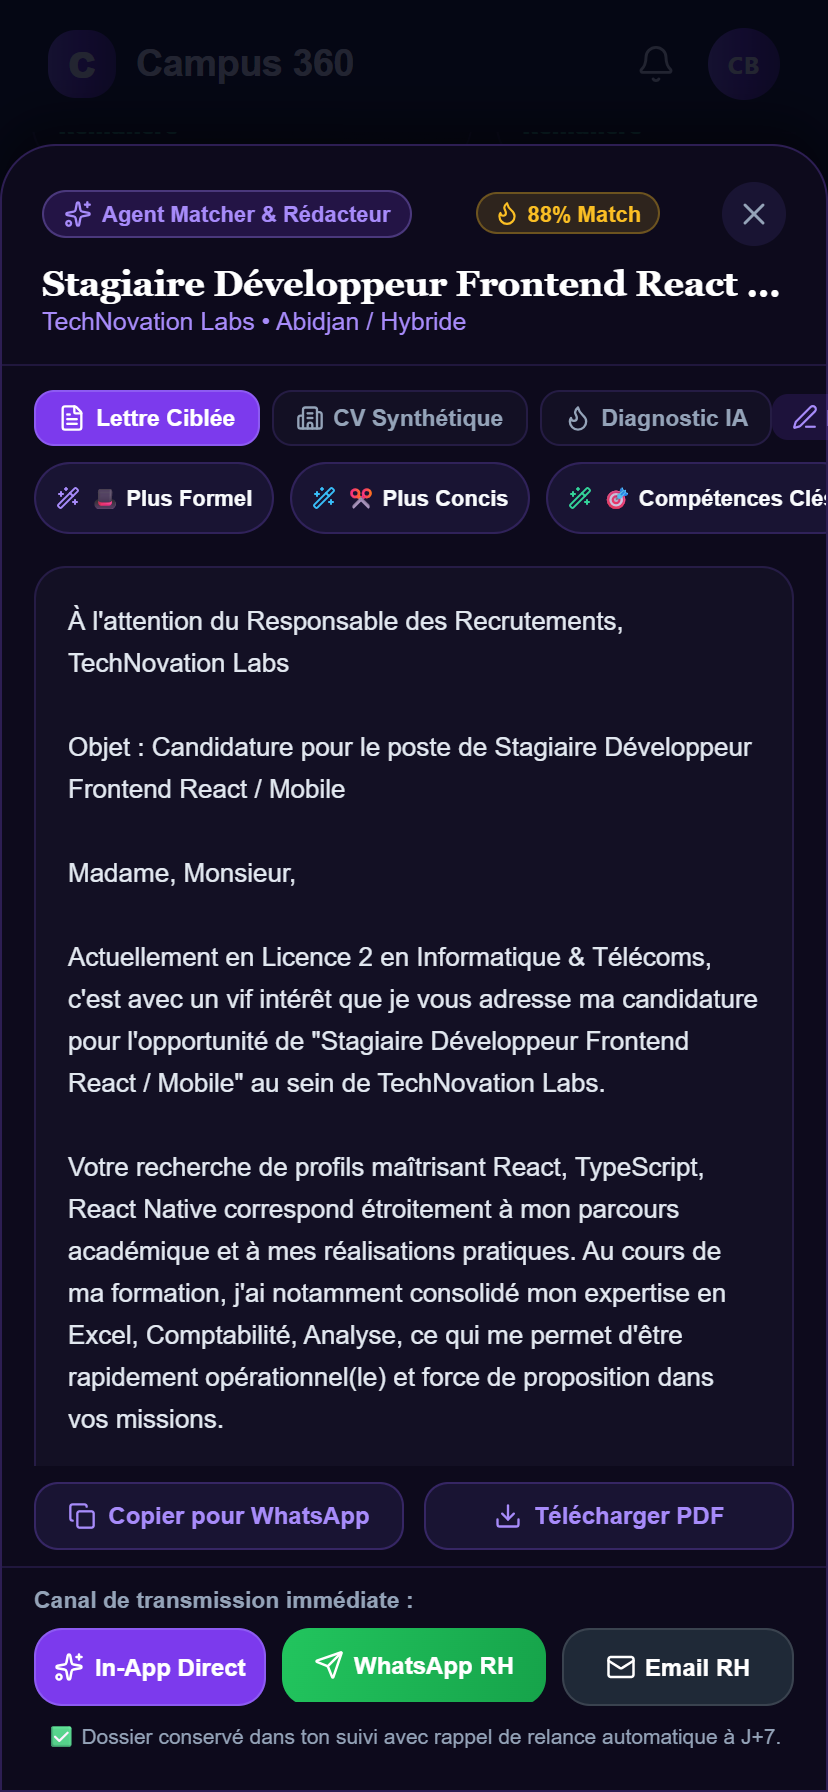
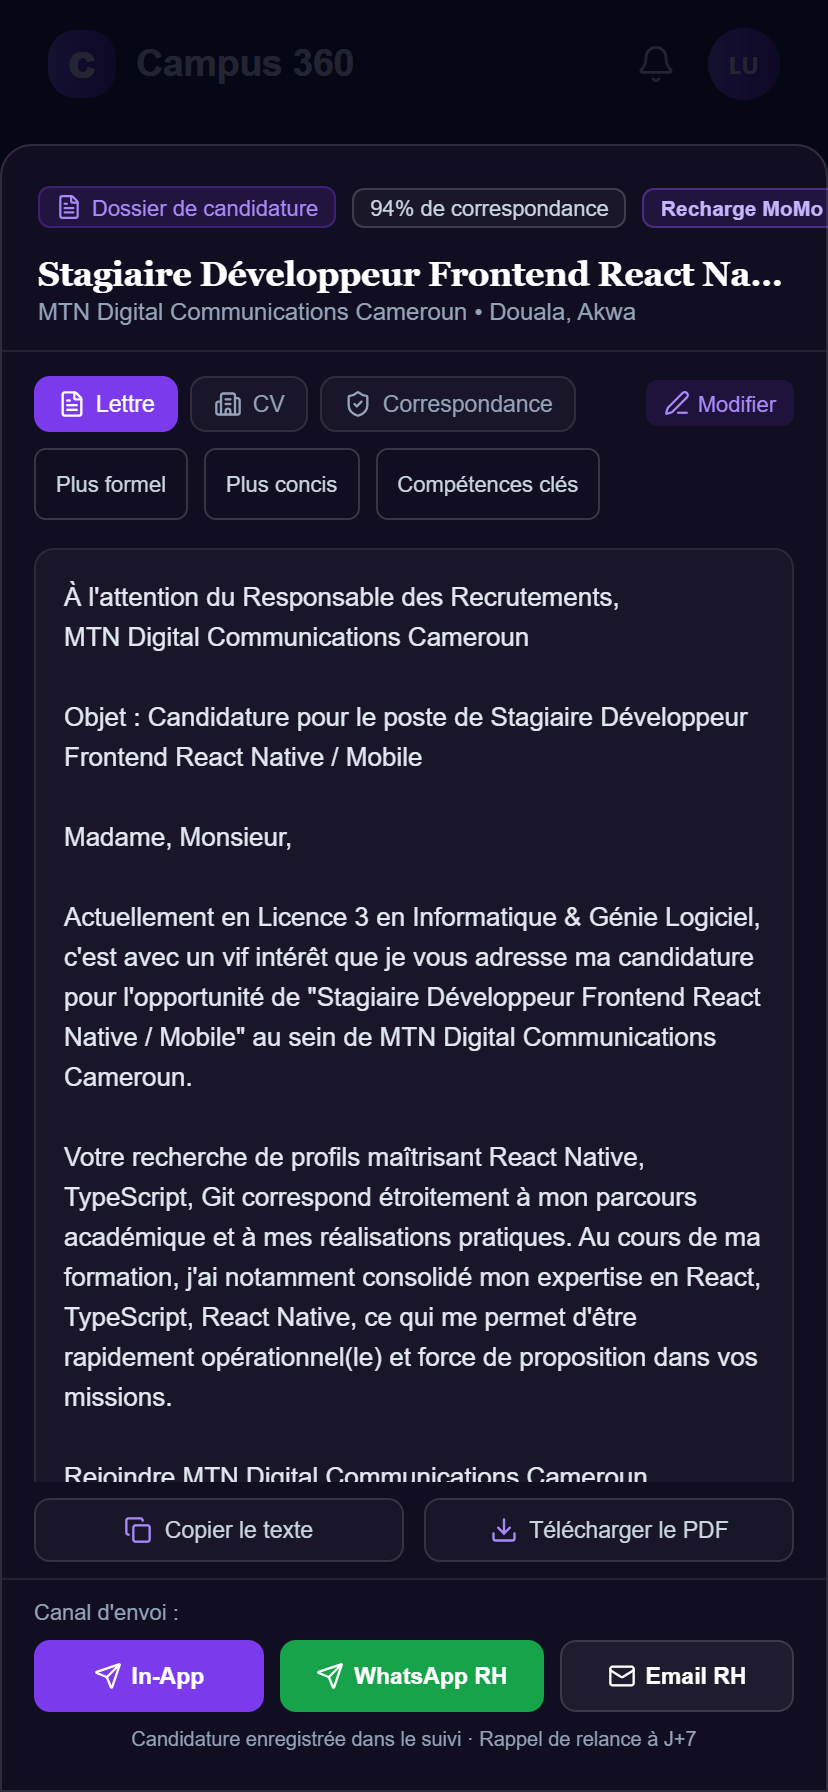
feat(scrapers-match): expand scraping and AI matching to all regions of Cameroon (Sud-Ouest, Ouest, Grand Nord, Sud, Est)

Changed region(s): [[0.0302, 0.0938, 1.0, 1.0]]

diff --git a/src/features/stages/aiMatchEngine.ts b/src/features/stages/aiMatchEngine.ts
@@ -423,63 +423,101 @@ function evaluateLocationProximity(
   const studentLoc = (studentLocation || '').toLowerCase();
   const majorLoc = (studentMajor || '').toLowerCase();
 
-  // 1. Offre en télétravail ou Remote -> 100% (15 points)
-  if (/remote|télétravail|teletravail|en ligne|hybride|partout/.test(jobLoc)) {
+  // 1. Offre en télétravail, Remote, ou mobilité nationale -> 100% (15 points)
+  if (/remote|télétravail|teletravail|en ligne|hybride|partout|national|cameroun \(national/.test(jobLoc)) {
     return 15;
   }
 
-  // 2. Détection de la ville de l'étudiant
-  let detectedStudentCity = '';
-  if (/douala/.test(studentLoc) || /douala/.test(majorLoc)) detectedStudentCity = 'douala';
-  else if (/yaoundé|yaounde/.test(studentLoc) || /yaoundé|yaounde|polytechnique/.test(majorLoc)) detectedStudentCity = 'yaounde';
-  else if (/bafoussam|dschang/.test(studentLoc) || /dschang/.test(majorLoc)) detectedStudentCity = 'bafoussam';
-  else if (/buea|limbe/.test(studentLoc) || /buea|limbe/.test(majorLoc)) detectedStudentCity = 'buea';
-  else if (/garoua|maroua/.test(studentLoc)) detectedStudentCity = 'nord';
+  // 2. Détection de la région / ville de l'étudiant
+  const resolveCityCluster = (text: string): string => {
+    if (/douala/.test(text)) return 'douala';
+    if (/yaoundé|yaounde|polytechnique/.test(text)) return 'yaounde';
+    if (/buea|limbe|tiko|kumba/.test(text)) return 'sud_ouest';
+    if (/bafoussam|dschang|foumban|mbouda|bangangté|bangangte/.test(text)) return 'ouest';
+    if (/bamenda/.test(text)) return 'nord_ouest';
+    if (/garoua|maroua|ngaoundéré|ngaoundere|adamaoua/.test(text)) return 'grand_nord';
+    if (/kribi|ebolowa|sangmélima|sangmelima/.test(text)) return 'sud';
+    if (/edéa|edea/.test(text)) return 'edea';
+    if (/bertoua|batouri/.test(text)) return 'est';
+    return '';
+  };
 
-  // 3. Détection de la ville de l'offre
-  let detectedJobCity = '';
-  if (/douala/.test(jobLoc)) detectedJobCity = 'douala';
-  else if (/yaoundé|yaounde/.test(jobLoc)) detectedJobCity = 'yaounde';
-  else if (/bafoussam|dschang/.test(jobLoc)) detectedJobCity = 'bafoussam';
-  else if (/buea|limbe/.test(jobLoc)) detectedJobCity = 'buea';
-  else if (/garoua|maroua/.test(jobLoc)) detectedJobCity = 'nord';
+  const detectedStudentCity = resolveCityCluster(studentLoc) || resolveCityCluster(majorLoc);
+  const detectedJobCity = resolveCityCluster(jobLoc);
 
-  // Si l'une des villes n'est pas identifiée, attribuer un score de mobilité médian (10/15)
+  // Si l'une des villes n'est pas identifiée, score de mobilité nationale (11/15)
   if (!detectedStudentCity || !detectedJobCity) {
-    return 10;
+    return 11;
   }
 
-  // Même ville exacte
+  // Même ville ou même cluster régional direct
   if (detectedStudentCity === detectedJobCity) {
     return 15;
   }
 
-  // Bassins économiques connectés (ex: Douala <-> Buea/Limbe)
+  // Littoral & Proximité immédiate (Douala <-> Edéa)
   if (
-    (detectedStudentCity === 'douala' && detectedJobCity === 'buea') ||
-    (detectedStudentCity === 'buea' && detectedJobCity === 'douala')
+    (detectedStudentCity === 'douala' && detectedJobCity === 'edea') ||
+    (detectedStudentCity === 'edea' && detectedJobCity === 'douala')
+  ) {
+    return 14;
+  }
+
+  // Corridor Littoral - Sud-Ouest Silicon Mountain (Douala <-> Buea / Limbe)
+  if (
+    (detectedStudentCity === 'douala' && detectedJobCity === 'sud_ouest') ||
+    (detectedStudentCity === 'sud_ouest' && detectedJobCity === 'douala')
+  ) {
+    return 12.5;
+  }
+
+  // Régions limitrophes Grassfields (Ouest Bafoussam/Dschang <-> Nord-Ouest Bamenda)
+  if (
+    (detectedStudentCity === 'ouest' && detectedJobCity === 'nord_ouest') ||
+    (detectedStudentCity === 'nord_ouest' && detectedJobCity === 'ouest')
   ) {
     return 12;
   }
 
-  // Grand axe Yaoundé <-> Bafoussam / Ouest
+  // Hub Grand Nord (Garoua <-> Maroua <-> Ngaoundéré)
+  if (detectedStudentCity === 'grand_nord' && detectedJobCity === 'grand_nord') {
+    return 14;
+  }
+
+  // Corridor Centre / Sud / Littoral Maritime (Kribi, Ebolowa <-> Douala, Yaoundé)
   if (
-    (detectedStudentCity === 'yaounde' && detectedJobCity === 'bafoussam') ||
-    (detectedStudentCity === 'bafoussam' && detectedJobCity === 'yaounde')
+    (detectedStudentCity === 'sud' && (detectedJobCity === 'douala' || detectedJobCity === 'yaounde')) ||
+    ((detectedStudentCity === 'douala' || detectedStudentCity === 'yaounde') && detectedJobCity === 'sud')
+  ) {
+    return 11;
+  }
+
+  // Axe Centre <-> Ouest (Yaoundé <-> Bafoussam)
+  if (
+    (detectedStudentCity === 'yaounde' && detectedJobCity === 'ouest') ||
+    (detectedStudentCity === 'ouest' && detectedJobCity === 'yaounde')
+  ) {
+    return 9.5;
+  }
+
+  // Axe Littoral <-> Ouest (Douala <-> Bafoussam)
+  if (
+    (detectedStudentCity === 'douala' && detectedJobCity === 'ouest') ||
+    (detectedStudentCity === 'ouest' && detectedJobCity === 'douala')
   ) {
     return 9;
   }
 
-  // Deux métropoles majeures Douala <-> Yaoundé (navette fréquente mais logement nécessaire)
+  // Deux métropoles majeures Douala <-> Yaoundé
   if (
     (detectedStudentCity === 'douala' && detectedJobCity === 'yaounde') ||
     (detectedStudentCity === 'yaounde' && detectedJobCity === 'douala')
   ) {
-    return 7.5;
+    return 8;
   }
 
-  // Villes géographiquement distantes
-  return 4.5;
+  // Autres liaisons interrégionales (mobilité étudiante avec stage conventionné)
+  return 5.5;
 }
 
 // ─────────────────────────────────────────────────────────────────────────────

diff --git a/scripts/agents/cameroon_jobs_agent.py b/scripts/agents/cameroon_jobs_agent.py
@@ -16,44 +16,74 @@ logging.basicConfig(level=logging.INFO, format="%(asctime)s [%(levelname)s] %(me
 logger = logging.getLogger("CameroonJobsAgent")
 
 CAMEROON_CITIES = [
+    # Métropoles économiques & administratives
     "Douala",
     "Yaoundé",
+    # Pôles Ouest & Nord-Ouest (Universités & Agro-industrie)
     "Bafoussam",
-    "Garoua",
-    "Maroua",
+    "Dschang",
     "Bamenda",
+    "Foumban",
+    # Pôles Sud-Ouest (Silicon Mountain Tech, Pétrole, Port & Tourisme)
     "Buea",
     "Limbe",
-    "Kribi",
+    "Kumba",
+    "Tiko",
+    # Grand Nord (Agro-industrie, Énergie, Coton, Élevage, Santé)
+    "Garoua",
+    "Maroua",
     "Ngaoundéré",
-    "Bertoua",
+    # Sud & Littoral Industriel (Port en eau profonde, Alu, Bois)
+    "Kribi",
+    "Edéa",
     "Ebolowa",
-    "Dschang"
+    # Est (Mines, Bois, Développement régional)
+    "Bertoua",
+    # Centre Périphérique
+    "Mbalmayo"
 ]
 
 class CameroonJobsAgent:
     def __init__(self):
         self.session = requests.Session()
 
-    def search_cameroon_jobs(self, query: str = "stage", max_results_per_query: int = 8) -> list:
+    def search_cameroon_jobs(self, query: str = "stage", city: str = None, max_results_per_query: int = 8) -> list:
         """
         Recherche des offres de stage et d'emploi spécifiquement localisées au Cameroun
-        sur de multiples portails et réseaux sociaux.
+        sur l'ensemble des 10 régions (Douala, Yaoundé, Bafoussam, Buea, Garoua, Kribi, etc.).
         """
         results = []
-        search_queries = [
-            # Portails camerounais réputés
-            f'site:emploi.cm ("{query}" OR "stage") Cameroun',
-            f'site:minajobs.net ("{query}" OR "stage") Cameroun',
-            f'site:cameroondesk.com ("{query}" OR "recrutement")',
-            f'site:akwajobs.com ("{query}" OR "stage" OR "internship")',
-            # LinkedIn Cameroun
-            f'site:linkedin.com/posts ("offre de stage" OR "recrutement") "{query}" ("Douala" OR "Yaoundé" OR "Cameroun")',
-            # Facebook Cameroun
-            f'site:facebook.com ("offre de stage" OR "recrutement") "{query}" ("Douala" OR "Yaoundé" OR "Bafoussam")',
-            # Dorks généraux avec contacts WhatsApp (très fréquents au Cameroun)
-            f'"{query}" ("Douala" OR "Yaoundé") "Cameroun" ("WhatsApp" OR "envoyer CV") ("stage" OR "emploi")'
-        ]
+
+        if city and city.lower() not in ["all", "toutes", "cameroun"]:
+            # Ciblage d'une ville ou région spécifique
+            search_queries = [
+                f'site:emploi.cm ("{query}" OR "stage") "{city}"',
+                f'site:minajobs.net ("{query}" OR "stage") "{city}"',
+                f'site:akwajobs.com ("{query}" OR "stage" OR "internship") "{city}"',
+                f'site:linkedin.com/posts ("offre de stage" OR "recrutement") "{query}" "{city}"',
+                f'site:facebook.com ("offre de stage" OR "recrutement") "{query}" "{city}"',
+                f'"{query}" ("{city}") "Cameroun" ("WhatsApp" OR "envoyer CV") ("stage" OR "emploi")'
+            ]
+        else:
+            # Couverture nationale équilibrée sur toutes les grandes régions
+            search_queries = [
+                # Portails nationaux
+                f'site:emploi.cm ("{query}" OR "stage") Cameroun',
+                f'site:minajobs.net ("{query}" OR "stage") Cameroun',
+                f'site:akwajobs.com ("{query}" OR "stage" OR "internship") Cameroun',
+                # Métropoles Centre & Littoral (Douala, Yaoundé, Edéa)
+                f'site:linkedin.com/posts ("offre de stage" OR "recrutement") "{query}" ("Douala" OR "Yaoundé" OR "Edéa")',
+                # Silicon Mountain & Sud-Ouest (Buea, Limbe, Kumba)
+                f'site:linkedin.com/posts ("offre de stage" OR "internship" OR "recrutement") "{query}" ("Buea" OR "Limbe" OR "Silicon Mountain")',
+                # Ouest & Nord-Ouest (Bafoussam, Dschang, Bamenda)
+                f'site:facebook.com ("offre de stage" OR "recrutement") "{query}" ("Bafoussam" OR "Dschang" OR "Bamenda")',
+                # Grand Nord (Garoua, Maroua, Ngaoundéré)
+                f'site:facebook.com ("offre de stage" OR "recrutement") "{query}" ("Garoua" OR "Maroua" OR "Ngaoundéré")',
+                # Sud & Est (Kribi, Ebolowa, Bertoua)
+                f'"{query}" ("Kribi" OR "Bertoua" OR "Ebolowa") "Cameroun" ("WhatsApp" OR "envoyer CV") ("stage" OR "recrutement")',
+                # Dorks nationaux généraux
+                f'"{query}" ("stage académique" OR "stage professionnel" OR "stage PFE") "Cameroun" ("WhatsApp" OR "recrutement")'
+            ]
 
         for sq in search_queries:
             found = self._query_syndication(sq, limit=max_results_per_query)
@@ -134,7 +164,10 @@ class CameroonJobsAgent:
         for city in CAMEROON_CITIES:
             if re.search(r"\b" + re.escape(city) + r"\b", text, re.IGNORECASE):
                 return city
-        return "Douala" # Ville économique principale par défaut
+        # Ne plus forcer Douala arbitrairement : conserver le caractère national / hybride
+        if "cameroun" in text.lower():
+            return "Cameroun (National / Hybride)"
+        return "Cameroun"
 
     def _extract_flyer_image_url(self, raw_html: str, text: str) -> str:
         """Extrait l'URL d'un flyer ou d'une image d'offre."""

diff --git a/scripts/agents/orchestrator.py b/scripts/agents/orchestrator.py
@@ -35,14 +35,15 @@ class ScraperOrchestrator:
         self.ai_agent = AIAnalyzerAgent()
         self.db_ingestor = DatabaseIngestor()
 
-    def run_full_pipeline(self, query: str = "informatique", platforms: list = None, limit_per_platform: int = 5) -> dict:
+    def run_full_pipeline(self, query: str = "informatique", platforms: list = None, limit_per_platform: int = 5, city: str = None) -> dict:
         """
         Exécute le cycle complet : Collecte -> Analyse IA -> Sauvegarde.
         """
         if not platforms:
             platforms = ["CAMEROON_JOBS", "LINKEDIN", "FACEBOOK", "TIKTOK", "ACADEMIC_WEB"]
 
-        logger.info(f"🚀 Lancement de la mission de scraping multi-agents : Mot-clé='{query}', Plateformes={platforms}")
+        loc_label = f" (Cible: {city})" if city else " (National / Toutes régions)"
+        logger.info(f"🚀 Lancement mission multi-agents : Mot-clé='{query}', Région={loc_label}, Plateformes={platforms}")
         start_time = time.time()
 
         # 1. Vérification des tables de base
@@ -53,18 +54,21 @@ class ScraperOrchestrator:
         # 2. Phase de Collecte
         if "CAMEROON_JOBS" in platforms:
             try:
-                cam_items = self.cameroon_agent.search_cameroon_jobs(query=query, max_results_per_query=limit_per_platform)
+                cam_items = self.cameroon_agent.search_cameroon_jobs(query=query, city=city, max_results_per_query=limit_per_platform)
                 collected_items.extend(cam_items)
             except Exception as e:
                 logger.error(f"Erreur Agent Cameroun Jobs : {e}")
+
+        # Requête ciblée avec ville si spécifiée
+        city_suffix = f" {city}" if city else ""
 
         if "LINKEDIN" in platforms:
             try:
                 li_items = []
                 if self.apify_agent.is_configured():
-                    li_items = self.apify_agent.scrape_linkedin_posts(query=f"stage {query}", limit=limit_per_platform)
+                    li_items = self.apify_agent.scrape_linkedin_posts(query=f"stage {query}{city_suffix} Cameroun", limit=limit_per_platform)
                 if not li_items:
-                    li_items = self.linkedin_agent.search_linkedin_reports(query=f"rapport de stage {query}", max_results=limit_per_platform)
+                    li_items = self.linkedin_agent.search_linkedin_reports(query=f"rapport de stage {query}{city_suffix}", max_results=limit_per_platform)
                 collected_items.extend(li_items)
             except Exception as e:
                 logger.error(f"Erreur Agent LinkedIn : {e}")
@@ -73,9 +77,9 @@ class ScraperOrchestrator:
             try:
                 fb_items = []
                 if self.apify_agent.is_configured():
-                    fb_items = self.apify_agent.scrape_facebook_posts(query=f"stage {query}", limit=limit_per_platform)
+                    fb_items = self.apify_agent.scrape_facebook_posts(query=f"stage {query}{city_suffix} Cameroun", limit=limit_per_platform)
                 if not fb_items:
-                    fb_items = self.facebook_agent.search_facebook_reports(query=f"rapport de stage {query}", max_results=limit_per_platform)
+                    fb_items = self.facebook_agent.search_facebook_reports(query=f"rapport de stage {query}{city_suffix}", max_results=limit_per_platform)
                 collected_items.extend(fb_items)
             except Exception as e:
                 logger.error(f"Erreur Agent Facebook : {e}")
@@ -83,7 +87,7 @@ class ScraperOrchestrator:
         if "TIKTOK" in platforms:
             try:
                 if self.apify_agent.is_configured():
-                    tt_items = self.apify_agent.scrape_tiktok_posts(query=f"stage {query} Cameroun", limit=limit_per_platform)
+                    tt_items = self.apify_agent.scrape_tiktok_posts(query=f"stage {query}{city_suffix} Cameroun", limit=limit_per_platform)
                     collected_items.extend(tt_items)
             except Exception as e:
                 logger.error(f"Erreur Agent TikTok : {e}")

diff --git a/scripts/agents/ai_analyzer_agent.py b/scripts/agents/ai_analyzer_agent.py
@@ -274,6 +274,30 @@ Réponds UNIQUEMENT avec le JSON valide, sans texte explicatif ni balises markdo
         elif any(w in lower_t for w in ["logist", "transit", "supply"]):
             field = "Logistique & Supply Chain"
 
+        # Détection de la ville
+        detected_loc = "Cameroun (National / Hybride)"
+        city_checks = [
+            ("yaound", "Yaoundé, Cameroun"),
+            ("douala", "Douala, Cameroun"),
+            ("buea", "Buea, Cameroun"),
+            ("limbe", "Limbe, Cameroun"),
+            ("bafoussam", "Bafoussam, Cameroun"),
+            ("dschang", "Dschang, Cameroun"),
+            ("bamenda", "Bamenda, Cameroun"),
+            ("garoua", "Garoua, Cameroun"),
+            ("maroua", "Maroua, Cameroun"),
+            ("ngaound", "Ngaoundéré, Cameroun"),
+            ("kribi", "Kribi, Cameroun"),
+            ("edea", "Edéa, Cameroun"),
+            ("edéa", "Edéa, Cameroun"),
+            ("ebolowa", "Ebolowa, Cameroun"),
+            ("bertoua", "Bertoua, Cameroun"),
+        ]
+        for c_needle, c_val in city_checks:
+            if c_needle in lower_t:
+                detected_loc = c_val
+                break
+
         return {
             "is_relevant": is_report or is_job,
             "document_type": doc_type,
@@ -297,7 +321,7 @@ Réponds UNIQUEMENT avec le JSON valide, sans texte explicatif ni balises markdo
             "is_offer": is_job,
             "offer_details": {
                 "requirements": [],
-                "location": "Douala, Cameroun",
+                "location": detected_loc,
                 "duration": "3 à 6 mois",
                 "contact_whatsapp": None,
                 "contact_email": None

diff --git a/scripts/agents/apify_agent.py b/scripts/agents/apify_agent.py
@@ -21,7 +21,7 @@ class ApifyScraperAgent:
         """Vérifie si le jeton API Apify est renseigné."""
         return bool(self.api_token and self.api_token.strip())
 
-    def scrape_linkedin_posts(self, query: str = "stage informatique Douala Yaounde", limit: int = 10) -> List[Dict[str, Any]]:
+    def scrape_linkedin_posts(self, query: str = "stage Cameroun Douala Yaounde Bafoussam Buea Garoua Kribi", limit: int = 10) -> List[Dict[str, Any]]:
         """
         Exécute l'Actor Apify pour extraire posts et images sur LinkedIn.
         """
@@ -56,7 +56,7 @@ class ApifyScraperAgent:
         logger.info("ℹ Aucun résultat Apify direct pour LinkedIn. Passage au scraper de syndication natif.")
         return []
 
-    def scrape_facebook_posts(self, query: str = "recrutement stagiaire Douala Yaounde", limit: int = 10) -> List[Dict[str, Any]]:
+    def scrape_facebook_posts(self, query: str = "recrutement stagiaire Cameroun Douala Yaounde Bafoussam Buea Garoua Kribi", limit: int = 10) -> List[Dict[str, Any]]:
         """
         Exécute l'Actor Apify pour extraire posts, flyers et images sur Facebook.
         """
@@ -87,7 +87,7 @@ class ApifyScraperAgent:
 
         return []
 
-    def scrape_tiktok_posts(self, query: str = "stage Cameroun Douala Yaounde", limit: int = 10) -> List[Dict[str, Any]]:
+    def scrape_tiktok_posts(self, query: str = "stage Cameroun Bafoussam Buea Garoua Douala Yaounde", limit: int = 10) -> List[Dict[str, Any]]:
         """
         Exécute l'Actor Apify TikTok Scraper pour extraire les vidéos, textes et miniatures (flyers/couvertures) sur TikTok.
         """

diff --git a/scripts/agents/run_scraper.py b/scripts/agents/run_scraper.py
@@ -23,6 +23,7 @@ def main():
     parser.add_argument("--query", type=str, default="informatique", help="Mot-clé ou filière recherchée")
     parser.add_argument("--platforms", type=str, default="LINKEDIN,FACEBOOK,ACADEMIC_WEB", help="Plateformes séparées par des virgules")
     parser.add_argument("--limit", type=int, default=5, help="Nombre max de résultats par plateforme")
+    parser.add_argument("--city", type=str, default=None, help="Ville ou région ciblée au Cameroun (ex: Bafoussam, Buea, Garoua, Douala, Yaoundé, Kribi)")
 
     args = parser.parse_args()
     selected_platforms = [p.strip().upper() for p in args.platforms.split(",") if p.strip()]
@@ -30,6 +31,8 @@ def main():
     print("================================================================")
     print("🤖 CAMPUS 360 — DÉPLOIEMENT DES AGENTS DE SCRAPING RÉSEAUX")
     print(f"🎯 Filière / Requête : {args.query}")
+    if args.city:
+        print(f"📍 Ville / Région     : {args.city}")
     print(f"🌐 Plateformes cibles : {', '.join(selected_platforms)}")
     print(f"📊 Limite par source : {args.limit}")
     print("================================================================\n")
@@ -37,6 +40,7 @@ def main():
     orchestrator = ScraperOrchestrator()
     summary = orchestrator.run_full_pipeline(
         query=args.query,
+        city=args.city,
         platforms=selected_platforms,
         limit_per_platform=args.limit
     )
